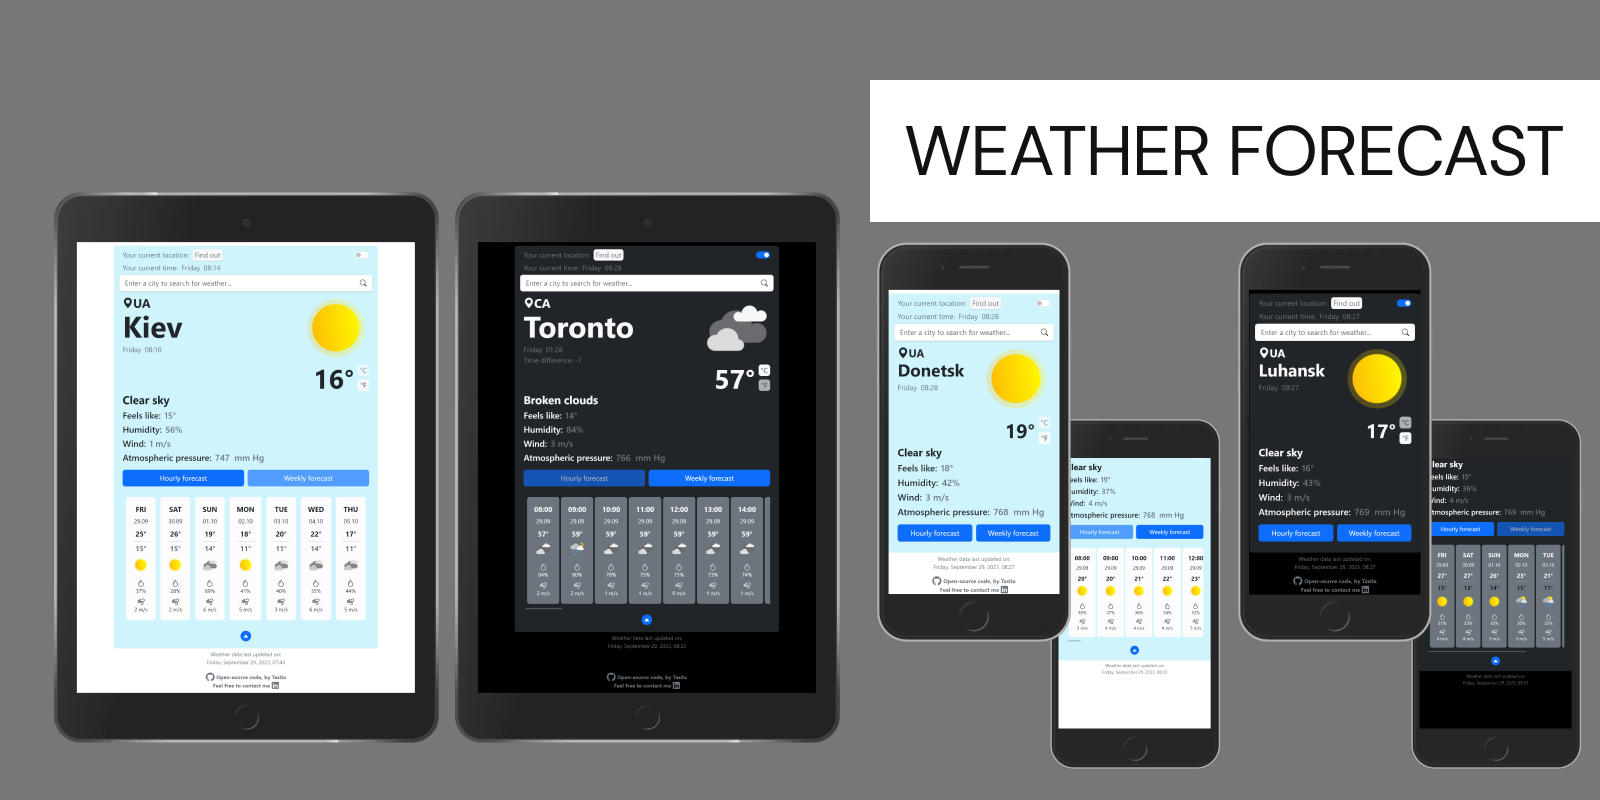
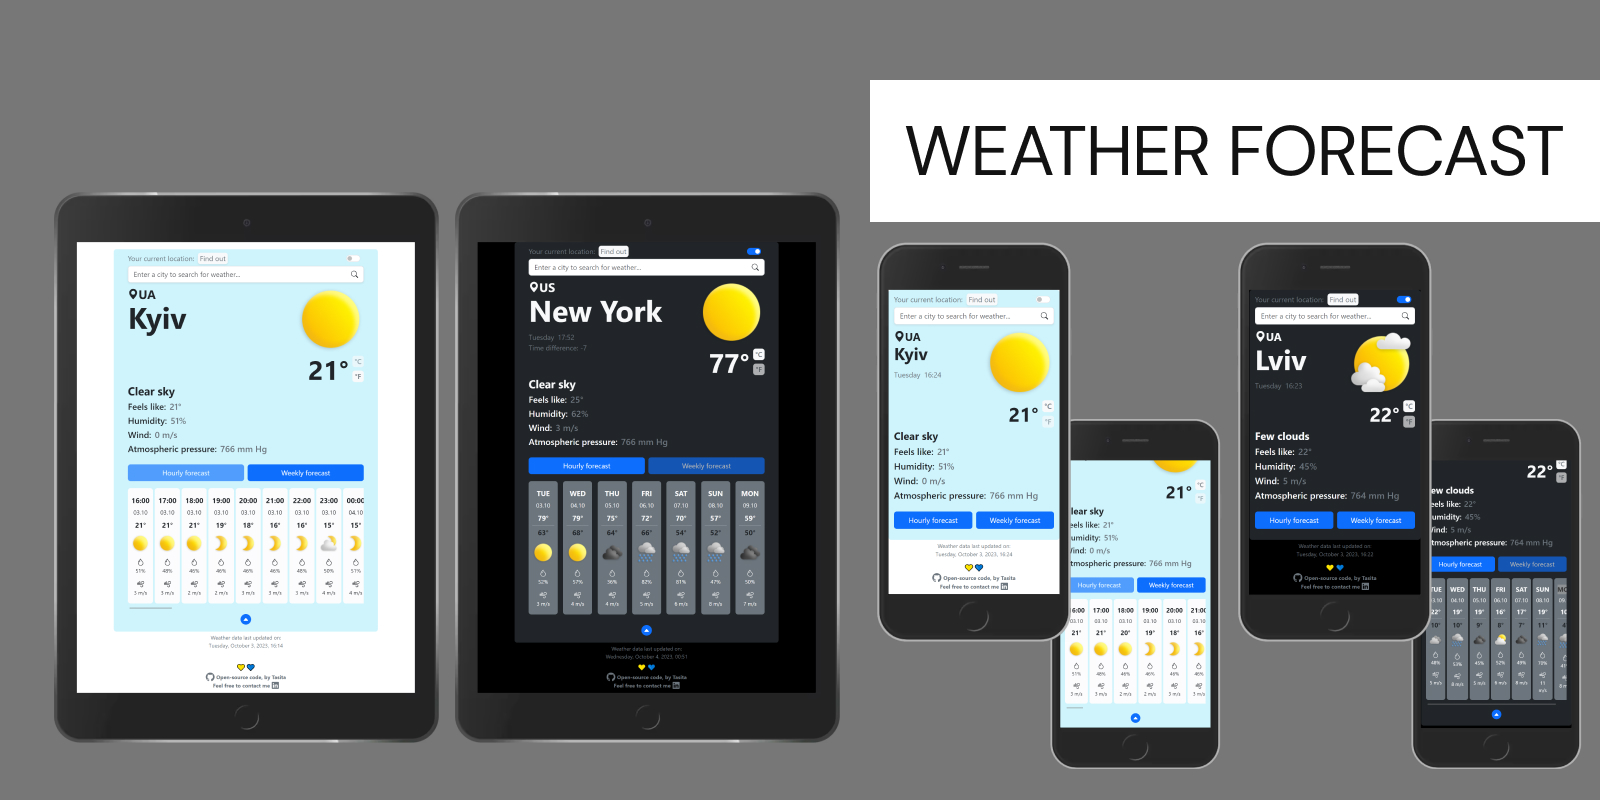
💛💙 Please help stop war in Ukraine!!!

diff --git a/src/index.js b/src/index.js
@@ -80,6 +80,14 @@ const cityCurrentTime = document.getElementById("city_current_time");
 const cityCurrentDay = document.getElementById("city_current_day");
 const timeDifference = document.getElementById("time_difference");
 
+//--- Atr for auto Edge translator ----------------------
+// function clearAutoTranslateAtr(el) {
+//   el.removeAttribute("_mstmutation");
+//   el.removeAttribute("_istranslated");
+//   el.removeAttribute("_msttexthash");
+//   el.removeAttribute("_msthash");
+// }
+
 function showFormattedCityDateTime(timestamp) {
   if (!timestamp) return;
 
@@ -110,8 +118,12 @@ function showFormattedCityDateTime(timestamp) {
     const cityDay = date.toLocaleDateString("en-us", {
       weekday: "long",
     });
-    cityCurrentDay.innerHTML = cityDay;
+    //cityCurrentDay.innerHTML = cityDay;
     cityCurrentTime.innerHTML = cityHours + ":" + cityMinutes;
+
+    if (cityCurrentDay.innerHTML !== cityDay) {
+      cityCurrentDay.innerHTML = cityDay;
+    }
   }
 
   formattedCityDateTime(cityDateNow);

diff --git a/index.html b/index.html
@@ -91,7 +91,7 @@
           />
         </div>
       </div>
-      
+
       <!-- Current day and time -->
       <!-- <div class="text-secondary d-flex align-items-baseline mb-1">
         <p class="mb-0 me-2">Your current time:</p>
@@ -102,7 +102,7 @@
       </div> -->
 
       <!-- Search form -->
-      <form class="position-relative mb-2">
+      <form class="position-relative mb-3">
         <input
           class="form-control pe-5 shadow-sm"
           type="text"
@@ -161,8 +161,8 @@
             <p id="city" class="h1-main fw-bold lh-1 m-0">—</p>
             <!-- Current day and time in city-->
             <p class="text-secondary mb-0 mt-3">
-              <span id="city_current_day" class="me-2"></span
-              ><span id="city_current_time"></span>
+              <span id="city_current_day" class="text-capitalize"></span
+              ><span id="city_current_time" class="ms-2"></span>
             </p>
 
             <p class="text-secondary mb-0 mb-2" id="time_difference"></p>
